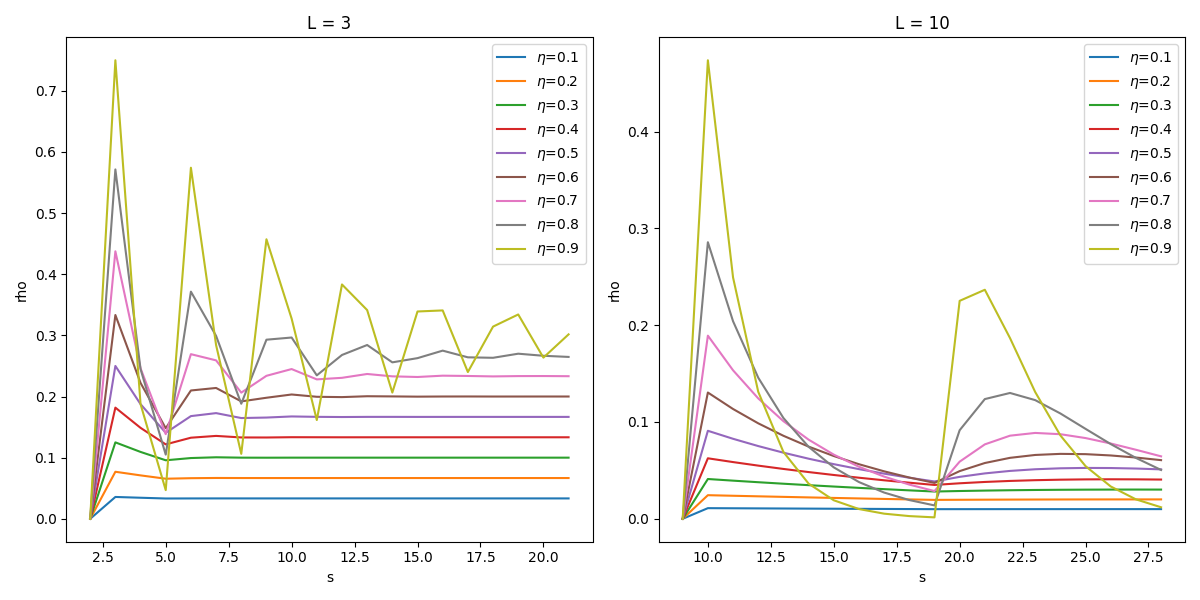
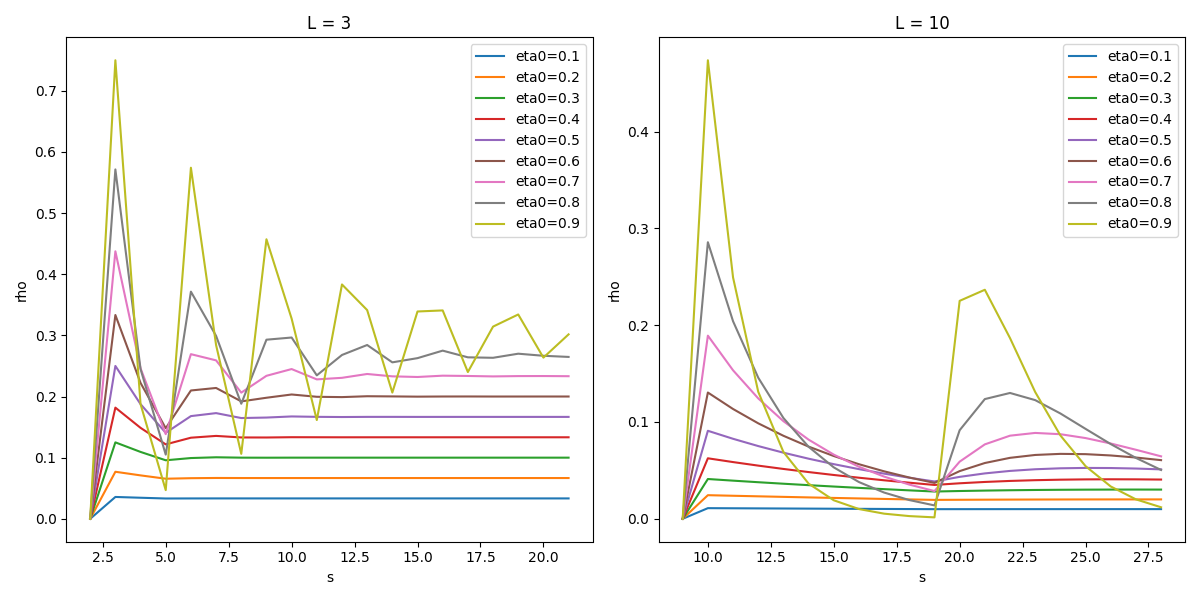
DFT done

Changed region(s): [[0.4008, 0.09, 0.4933, 0.42], [0.8942, 0.09, 0.9867, 0.42]]

diff --git a/03_classical_density_functional_theory/main.py b/03_classical_density_functional_theory/main.py
@@ -4,46 +4,95 @@ import pandas as pd
 import os.path
 import matplotlib.pyplot as plt
 
+# Simulation parameters
 N = 1000
 Ls = [3, 10]
 eta_0s = [0.1, 0.2, 0.3, 0.4, 0.5, 0.6, 0.7, 0.8, 0.9]
-
 threshold = 1e-12
 max_steps = 100000
 alpha = 0.001
 
-
+# DataFrames to store intermediate density profiles and final outputs
 df = pd.DataFrame(columns=["L", "eta_0", "rho"])
-outputs = pd.DataFrame(columns=["L", "eta_0", "ST_num", "ST_analytic", "ST_diff", "exc_abs"])
+outputs = pd.DataFrame(columns=["L", "eta_0", "mu", "ST_num", "ST_analytic", "ST_diff", "exc_abs", "Gamma_from_dgamma"])
+
 fig, axes = plt.subplots(1, 2, figsize=(12, 6))
 
+# Loop over rod lengths and packing fractions
 for i, L in enumerate(Ls):
     ax = axes[i]
     for eta_0 in eta_0s:
         rho = dft.rho_solver(N, L, eta_0, threshold, max_steps, alpha)
         df.loc[len(df)] = [L, eta_0, rho]
-        ax.plot(range(L-1, N//50 + L-1), rho[(L-1):(N//50 + L-1)], label=rf"$\eta$={eta_0}")
+        # only plot left wall
+        ax.plot(range(L-1, N//50 + L-1), rho[(L-1):(N//50 + L-1)], label=f"eta0={eta_0}")
     ax.set_title(f"L = {L}")
     ax.set_xlabel("s")
     ax.set_ylabel("rho")
     ax.legend()
 
-print("start calculating surface tensions")
+print("Start calculating surface tensions and chemical potentials")
+# For each simulation run, compute quantities of interest
 for i, row in df.iterrows():
     L = row["L"]
     eta_0 = row["eta_0"]
     rho = row["rho"]
+    rho0 = eta_0 / L
+    mu_bulk = np.log(rho0) + dft.mu_ex_homog(rho0, L)
     ST_num = dft.surface_tension_numerical(rho, L)
     ST_analytic = dft.surface_tension_analytical(rho, L)
     exc_abs = dft.excess_adsorption(rho, L)
-    outputs.loc[len(outputs)] = [L, eta_0, ST_num, ST_analytic, ST_num - ST_analytic, exc_abs]
+    outputs.loc[len(outputs)] = [L, eta_0, mu_bulk, ST_num, ST_analytic, ST_num - ST_analytic, exc_abs, np.nan]
+
+# For each rod length L, compute the numerical derivative -d(ST_num)/d(mu) as Gamma from Gibbs’ adsorption equation.
+for L in Ls:
+    mask = outputs["L"] == L
+    group = outputs[mask].sort_values("mu")
+    mu_group = group["mu"].values
+    ST_group = group["ST_num"].values
+    # Compute the derivative d(ST_num)/d(mu)
+    dST_dmu = np.gradient(ST_group, mu_group)
+    Gamma_from_dgamma = -dST_dmu
+    outputs.loc[mask, "Gamma_from_dgamma"] = Gamma_from_dgamma
 
 plt.tight_layout()
-plt.savefig(os.path.join(os.path.dirname(__file__), "outputs", "rho_plots.png"))
+plot_path = os.path.join(os.path.dirname(__file__), "outputs", "rho_plots.png")
+plt.savefig(plot_path)
 
-df.astype({"L": int, "eta_0": float})
+# Create a new DataFrame for "exc_abs" and "Gamma_from_dgamma"
+adsorption_data = outputs[["L", "eta_0", "exc_abs", "Gamma_from_dgamma"]].copy()
+
+# Save the new DataFrame to a CSV file (if desired)
+adsorption_output_path = os.path.join(os.path.dirname(__file__), "outputs", "adsorption_data.csv")
+adsorption_data.to_csv(adsorption_output_path, index=False)
+
+print("=========== Adsorption data:")
+print(adsorption_data)
+print(adsorption_data.to_latex(index=False, float_format=r"\num{%.3e}"))
+
+fig, axes = plt.subplots(1, 2, figsize=(12, 6))
+
+for i, L in enumerate(Ls):
+    ax = axes[i]
+    mask = outputs["L"] == L
+    group = outputs[mask]
+    ax.plot(group["eta_0"], group["exc_abs"], label="aus Gleichung (2.23)")
+    ax.plot(group["eta_0"], group["Gamma_from_dgamma"], label="aus Gradienten")
+    ax.legend()
+    ax.set_xlabel("$\eta_0$")
+    ax.set_ylabel("$\Gamma$")
+    ax.set_title(f"L = {L}")
+
+plt.tight_layout()
+plt.savefig(os.path.join(os.path.dirname(__file__), "outputs", "adsorption_plot.png"))
+
+# remove the "mu", "exc_abs" and "Gamma_from_dgamma" columns from the outputs for nice presentation
+outputs = outputs.drop(columns=["mu", "exc_abs", "Gamma_from_dgamma"])
+
+print("=========== Final outputs:")
 print(outputs)
 print(outputs.to_latex(index=False, float_format=r"\num{%.3e}"))
 
-output_path = os.path.join(os.path.dirname(__file__), "outputs",  "rho_data.csv")
+# Save the density profile data (if desired)
+output_path = os.path.join(os.path.dirname(__file__), "outputs", "rho_data.csv")
 df.to_csv(output_path, index=False)

diff --git a/03_classical_density_functional_theory/dft_lib.py b/03_classical_density_functional_theory/dft_lib.py
@@ -23,15 +23,11 @@ def mu_ex(rho, L, beta=1.0):
     for s in range(rho.size):
         first_term = 0
         second_term = 0
-
         for s_prime in range(s, s+L):
             first_term += phi_prime(n1(s_prime, L, rho))
-        
         for s_prime in range(s+1, s+L):
             second_term += phi_prime(n0(s_prime, L, rho))
-
         res[s] = first_term - second_term
-
     return 1/beta * res
 
 @jit(nopython=True)
@@ -53,8 +49,18 @@ def exp_pot_ext(M, L):
 
 @jit(nopython=True)
 def mu_ex_homog(rho, L, beta = 1.0):
-    # Überschüssiges chem. Potential
+    # Überschüssiges chem. Potential für homogene Systeme
     return 1/beta * (-L*np.log(1-L*rho) + (L-1)*np.log(1-(L-1)*rho))
+
+@jit(nopython=True)
+def mu_total(rho, L, beta=1.0):
+    # Gesamtes chemisches Potential: ideal + exzess
+    return np.log(rho) + mu_ex_homog(rho, L, beta)
+
+# # Helper function: Given bulk packing fraction eta_0 and rod length L, compute mu_total using rho0 = eta_0/L
+# def mu_total_homog(eta_0, L, beta=1.0):
+#     rho0 = eta_0 / L
+#     return np.log(rho0) + mu_ex_homog(rho0, L, beta)
 
 @jit(nopython=True)
 def rho_solver(N: int, L: int, eta: float,  thresh: float, max_steps: int, alpha: float, beta: float = 1.0):
@@ -71,12 +77,9 @@ def rho_solver(N: int, L: int, eta: float,  thresh: float, max_steps: int, alpha
             ran_steps = i
             print("Converged after", ran_steps, "steps")
             break
-
         rho = (1-alpha) * rho + alpha * rho_new # mixing new and old density
-
         if i == max_steps - 1:
             print("Did not converge after", max_steps, "steps")
-
     return rho
 
 # --- benötigt für Aufgabe 5 ---
@@ -90,25 +93,23 @@ def surface_tension_analytical(rho: np.ndarray, L: int, beta: float = 1.0):
     return 1/(2*beta) * ((L-1)*np.log(1-L*rho_0) - L*np.log(1-(L-1)*rho_0))
 
 @jit(nopython=True)
-def mu_total(rho, L, beta=1.0):
+def mu_total_profile(rho, L, beta=1.0):
     return  np.log(rho) + mu_ex_homog(rho, L, beta)
 
 @jit(nopython=True)
 def free_energy(rho: np.ndarray, L: int, beta: float=1.0):
     N = len(rho)
     rho_middle = rho[L:N-L]
-    
     F_ex = 0
     for s in range(N):
         F_ex += phi(n1(s, L, rho)) - phi(n0(s, L, rho))
-
     return 1/beta * (np.sum(rho_middle * (np.log(rho_middle)-1)) + F_ex) # first summand is F_id
 
 @jit(nopython=True)
 def GC_pot(rho: np.ndarray, L: int, beta: float=1.0):
     N  = len(rho)
     rho_center = rho[N//2]
-    mu = mu_total(rho_center, L, beta)
+    mu = mu_total_profile(rho_center, L, beta)
     F = free_energy(rho, L, beta)
     return F - np.sum(mu * rho)
 
@@ -116,14 +117,11 @@ def GC_pot(rho: np.ndarray, L: int, beta: float=1.0):
 def pressure(rho_0: float, L: int, beta: float=1.0):
     return 1/beta * (np.log(1-(L-1)*rho_0) - np.log(1-L*rho_0))
 
-
 @jit(nopython=True)
 def surface_tension_numerical(rho:np.ndarray, L: int, beta: float = 1.0):
     N = len(rho)
     rho_0 = rho[N//2]
-
-    GC_pot_homog = -pressure(rho_0, L, beta) * ((N-L)-L) # Anzahl der Gitterpunkte zwischen der Wände
-
+    GC_pot_homog = -pressure(rho_0, L, beta) * ((N-L)-L) 
     return 0.5 * (GC_pot(rho, L, beta) - GC_pot_homog)
 
 @jit(nopython=True)
